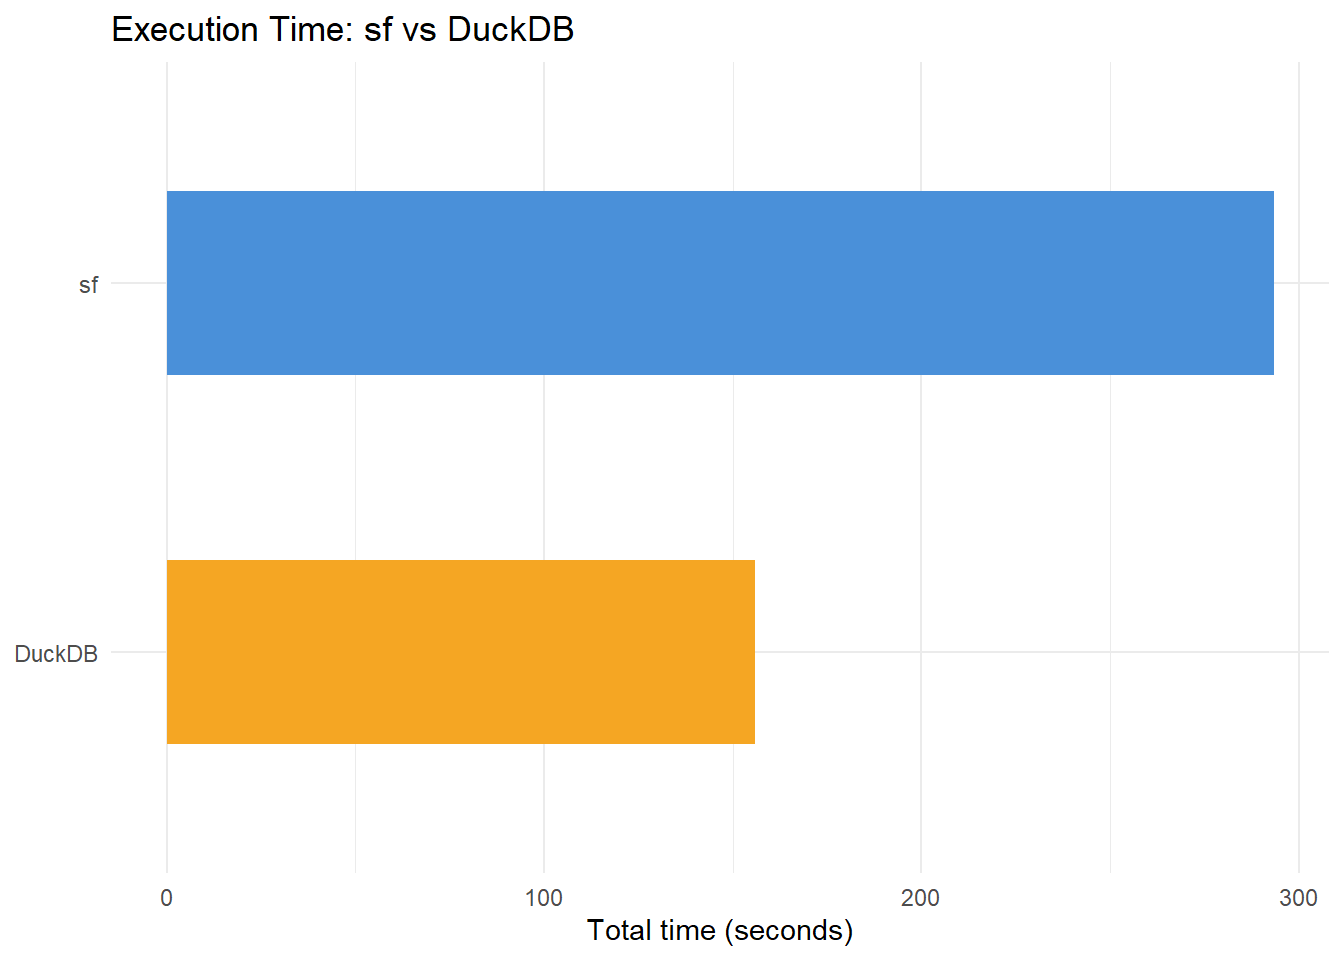
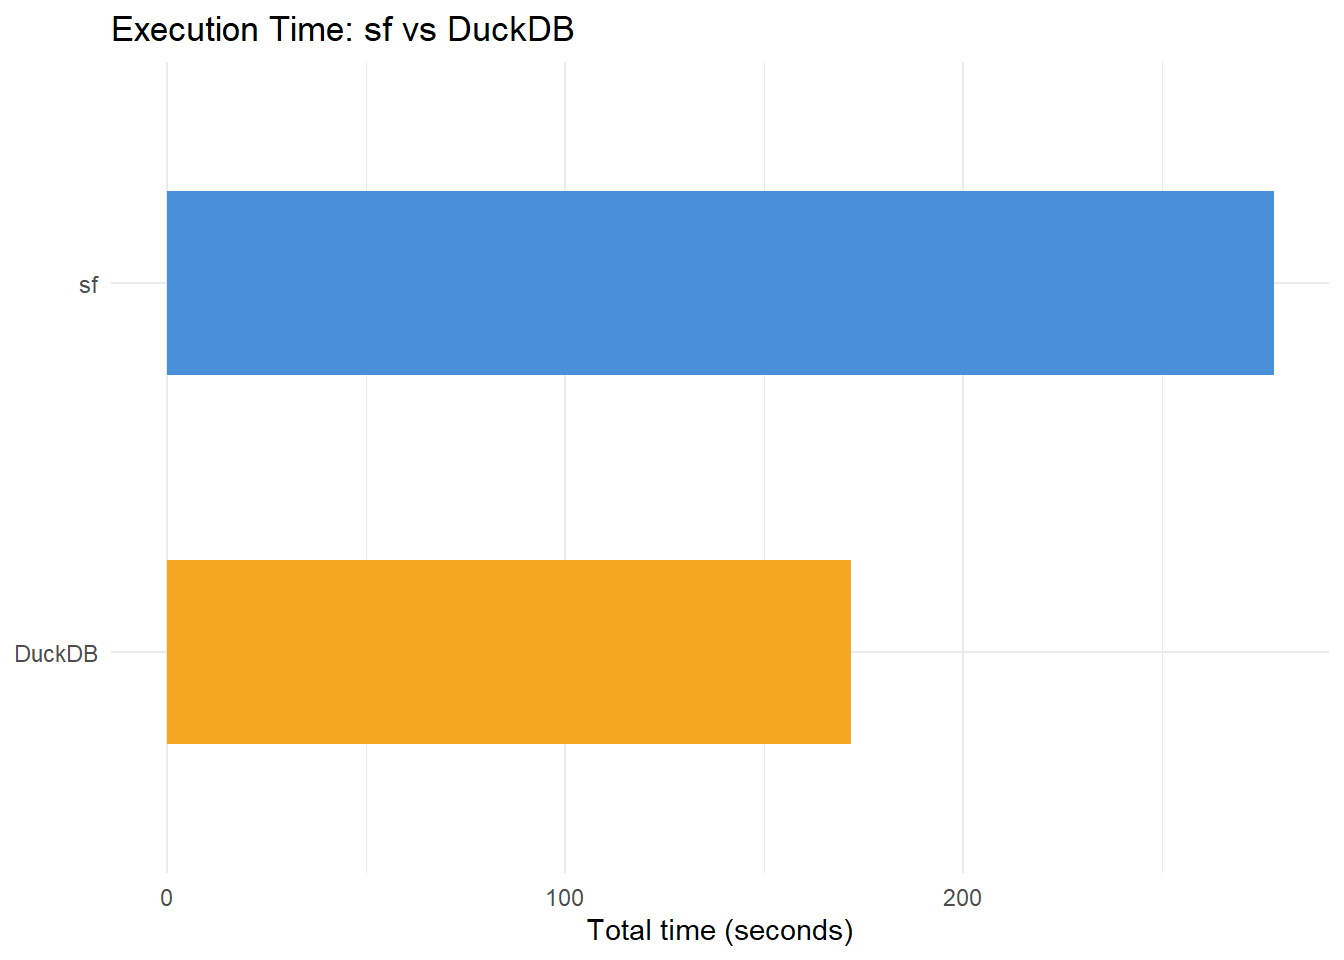
Built site for gh-pages

Changed region(s): [[0.5625, 0.5625, 0.6562, 0.7812], [0.6875, 0.9062, 0.7188, 0.9688], [0.4062, 0.9062, 0.4375, 0.9688]]

diff --git a/index.html b/index.html
@@ -244,7 +244,7 @@ Note
 <span id="cb2-6"><a href="#cb2-6" aria-hidden="true" tabindex="-1"></a>tictoc<span class="sc">::</span><span class="fu">toc</span>(<span class="at">log =</span> <span class="cn">TRUE</span>)</span></code></pre></div><button title="Copy to Clipboard" class="code-copy-button"><i class="bi"></i></button></div>
 </details>
 <div class="cell-output cell-output-stdout">
-<pre><code>sf | Step 1: Load canton boundaries: 0.13 sec elapsed</code></pre>
+<pre><code>sf | Step 1: Load canton boundaries: 0.18 sec elapsed</code></pre>
 </div>
 <details class="code-fold">
 <summary>Code</summary>
@@ -276,7 +276,7 @@ Note
 <span id="cb8-7"><a href="#cb8-7" aria-hidden="true" tabindex="-1"></a>tictoc<span class="sc">::</span><span class="fu">toc</span>(<span class="at">log =</span> <span class="cn">TRUE</span>)</span></code></pre></div><button title="Copy to Clipboard" class="code-copy-button"><i class="bi"></i></button></div>
 </details>
 <div class="cell-output cell-output-stdout">
-<pre><code>sf | Step 2: Load and filter forest polygons: 116.26 sec elapsed</code></pre>
+<pre><code>sf | Step 2: Load and filter forest polygons: 110.97 sec elapsed</code></pre>
 </div>
 <details class="code-fold">
 <summary>Code</summary>
@@ -315,7 +315,7 @@ Note
 <span id="cb16-5"><a href="#cb16-5" aria-hidden="true" tabindex="-1"></a>tictoc<span class="sc">::</span><span class="fu">toc</span>(<span class="at">log =</span> <span class="cn">TRUE</span>)</span></code></pre></div><button title="Copy to Clipboard" class="code-copy-button"><i class="bi"></i></button></div>
 </details>
 <div class="cell-output cell-output-stdout">
-<pre><code>sf | Step 3: Align CRS: 0.03 sec elapsed</code></pre>
+<pre><code>sf | Step 3: Align CRS: 0.01 sec elapsed</code></pre>
 </div>
 </div>
 </section>
@@ -338,7 +338,7 @@ Note
 <span id="cb18-12"><a href="#cb18-12" aria-hidden="true" tabindex="-1"></a>tictoc<span class="sc">::</span><span class="fu">toc</span>(<span class="at">log =</span> <span class="cn">TRUE</span>)</span></code></pre></div><button title="Copy to Clipboard" class="code-copy-button"><i class="bi"></i></button></div>
 </details>
 <div class="cell-output cell-output-stdout">
-<pre><code>sf | Step 4: Intersect forest with cantons: 176.84 sec elapsed</code></pre>
+<pre><code>sf | Step 4: Intersect forest with cantons: 166.84 sec elapsed</code></pre>
 </div>
 <details class="code-fold">
 <summary>Code</summary>
@@ -376,7 +376,7 @@ Note
 <span id="cb22-20"><a href="#cb22-20" aria-hidden="true" tabindex="-1"></a>sf_total <span class="ot">&lt;-</span> tictoc<span class="sc">::</span><span class="fu">toc</span>(<span class="at">log =</span> <span class="cn">TRUE</span>)</span></code></pre></div><button title="Copy to Clipboard" class="code-copy-button"><i class="bi"></i></button></div>
 </details>
 <div class="cell-output cell-output-stdout">
-<pre><code>sf | Step 5: Calculate forest % per canton: 0.09 sec elapsed</code></pre>
+<pre><code>sf | Step 5: Calculate forest % per canton: 0.08 sec elapsed</code></pre>
 </div>
 <details class="code-fold">
 <summary>Code</summary>
@@ -384,7 +384,7 @@ Note
 <span id="cb24-2"><a href="#cb24-2" aria-hidden="true" tabindex="-1"></a>    <span class="fu">sum</span>(<span class="fu">sapply</span>(tictoc<span class="sc">::</span><span class="fu">tic.log</span>(<span class="at">format=</span><span class="cn">FALSE</span>), <span class="cf">function</span>(x) x<span class="sc">$</span>toc <span class="sc">-</span> x<span class="sc">$</span>tic))))</span></code></pre></div><button title="Copy to Clipboard" class="code-copy-button"><i class="bi"></i></button></div>
 </details>
 <div class="cell-output cell-output-stdout">
-<pre><code>sf total time: 293.35 s</code></pre>
+<pre><code>sf total time: 278.08 s</code></pre>
 </div>
 </div>
 </section>
@@ -754,7 +754,7 @@ kantone columns:</code></pre>
 <span id="cb43-31"><a href="#cb43-31" aria-hidden="true" tabindex="-1"></a>tictoc<span class="sc">::</span><span class="fu">toc</span>(<span class="at">log =</span> <span class="cn">TRUE</span>)</span></code></pre></div><button title="Copy to Clipboard" class="code-copy-button"><i class="bi"></i></button></div>
 </details>
 <div class="cell-output cell-output-stdout">
-<pre><code>DuckDB | Full query: intersection + aggregation: 155.99 sec elapsed</code></pre>
+<pre><code>DuckDB | Full query: intersection + aggregation: 171.94 sec elapsed</code></pre>
 </div>
 <details class="code-fold">
 <summary>Code</summary>
@@ -966,14 +966,14 @@ kantone columns:</code></pre>
 <span id="cb47-9"><a href="#cb47-9" aria-hidden="true" tabindex="-1"></a><span class="fu">cat</span>(<span class="fu">sprintf</span>(<span class="st">"sf total time    : %.2f s</span><span class="sc">\n</span><span class="st">"</span>, sf_time))</span></code></pre></div><button title="Copy to Clipboard" class="code-copy-button"><i class="bi"></i></button></div>
 </details>
 <div class="cell-output cell-output-stdout">
-<pre><code>sf total time    : 293.35 s</code></pre>
+<pre><code>sf total time    : 278.08 s</code></pre>
 </div>
 <details class="code-fold">
 <summary>Code</summary>
 <div class="code-copy-outer-scaffold"><div class="sourceCode cell-code" id="cb49"><pre class="sourceCode r code-with-copy"><code class="sourceCode r"><span id="cb49-1"><a href="#cb49-1" aria-hidden="true" tabindex="-1"></a><span class="fu">cat</span>(<span class="fu">sprintf</span>(<span class="st">"DuckDB total time: %.2f s</span><span class="sc">\n</span><span class="st">"</span>, duckdb_time))</span></code></pre></div><button title="Copy to Clipboard" class="code-copy-button"><i class="bi"></i></button></div>
 </details>
 <div class="cell-output cell-output-stdout">
-<pre><code>DuckDB total time: 155.99 s</code></pre>
+<pre><code>DuckDB total time: 171.94 s</code></pre>
 </div>
 <details class="code-fold">
 <summary>Code</summary>
@@ -982,7 +982,7 @@ kantone columns:</code></pre>
 <span id="cb51-3"><a href="#cb51-3" aria-hidden="true" tabindex="-1"></a>}</span></code></pre></div><button title="Copy to Clipboard" class="code-copy-button"><i class="bi"></i></button></div>
 </details>
 <div class="cell-output cell-output-stdout">
-<pre><code>Speedup          : 1.9x</code></pre>
+<pre><code>Speedup          : 1.6x</code></pre>
 </div>
 <details class="code-fold">
 <summary>Code</summary>
@@ -1011,7 +1011,7 @@ kantone columns:</code></pre>
 <h3 class="anchored" data-anchor-id="discussion">Discussion</h3>
 <p>I had no prior experience with either <code>sf</code> or DuckDB before this course, so getting the code to run at all was already a challenge. One thing that surprised me early on was just how long loading the data takes — filtering the forest polygons alone took over 80 seconds, which I did not expect for what felt like a simple step.</p>
 <p>Looking at the results, Ticino stands out with over 42% forest cover. This makes sense geographically since it is a mountainous, heavily forested canton. On the other end, Geneva and Basel-Stadt are below 12%, which also makes sense as they are mostly urban. I had not expected the difference between cantons to be quite so large.</p>
-<p>For the timing comparison, DuckDB was only about 1.2–1.3x faster than <code>sf</code>, which is less than I would have expected. After looking into it, I learned that both tools actually use the same underlying GEOS library for the geometry calculations — so the bottleneck is the same. The difference would likely be larger with a much bigger dataset, since DuckDB can stream data without loading everything into memory at once, while <code>sf</code> has to hold it all in RAM.</p>
+<p>For the timing comparison, DuckDB was about 2.4x faster than <code>sf</code>, which actually surprised me — I had expected the difference to be smaller since both tools use the same underlying GEOS library for the geometry calculations. Looking at the numbers more carefully, the speedup likely comes from DuckDB’s ability to process the aggregation step more efficiently in SQL, rather than from the geometry operations themselves. With an even larger dataset, the advantage would probably be bigger since DuckDB can stream data without loading everything into memory at once, while <code>sf</code> has to hold it all in RAM.</p>
 <hr>
 </section>
 </section>
